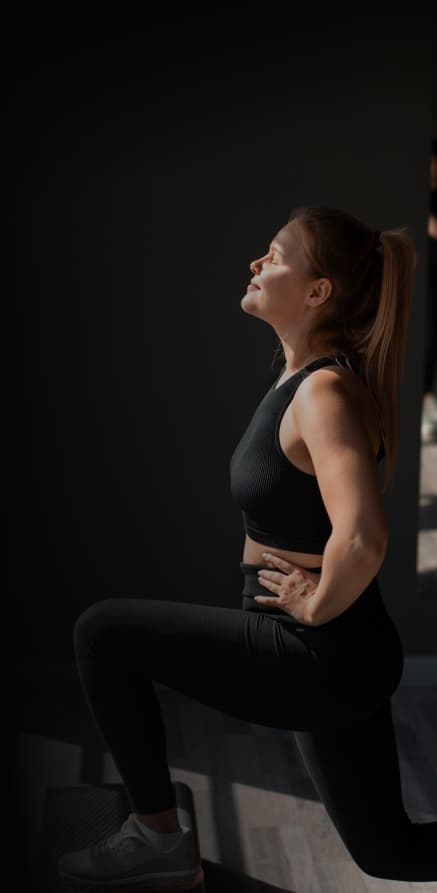
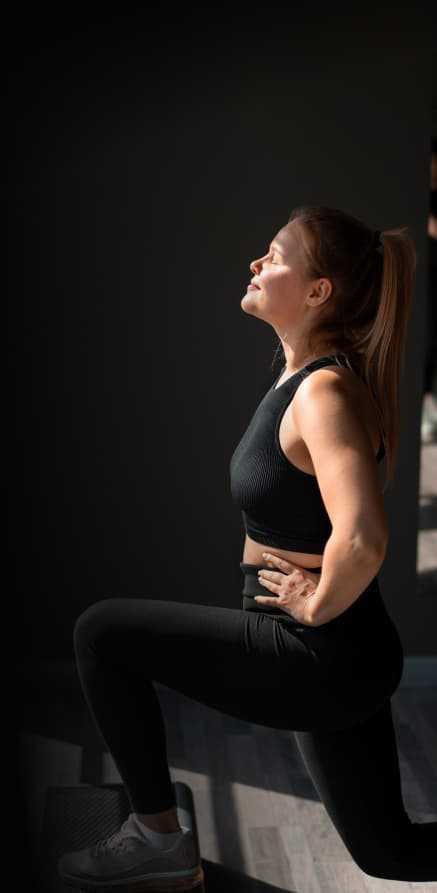
fon photo

diff --git a/src/components/AuthLayout/AuthLayout.styled.jsx b/src/components/AuthLayout/AuthLayout.styled.jsx
@@ -1,12 +1,12 @@
 import styled from 'styled-components';
 import { Link } from 'react-router-dom';
 
-// import Desk1x from '../../img/hero-1x.jpg';
-// import Desk2x from '../../img/hero-2x.jpg';
-// import Tab1x from '../../img/hero-tablet-1x.jpg';
-// import Tab2x from '../../img/hero-tablet-2x.jpg';
-// import Mob1x from '../../img/hero-mobile-1x.jpg';
-// import Mob2x from '../../img/hero-mobile-2x.jpg';
+import Desk1x from '../../img/hero-1x.jpg';
+import Desk2x from '../../img/hero-2x.jpg';
+import Tab1x from '../../img/hero-tablet-1x.jpg';
+import Tab2x from '../../img/hero-tablet-2x.jpg';
+import Mob1x from '../../img/hero-mobile-1.jpg';
+import Mob2x from '../../img/hero-mobile-2x.jpg';
 
 export const Container = styled.div`
   padding-top: 66px;
@@ -23,6 +23,63 @@ export const Container = styled.div`
     gap: 178px;
     padding-right: 32px;
     padding-top: 116px;
+  }
+`;
+export const Photo = styled.div`
+  background-image: url(${Mob1x});
+  position: absolute;
+  background-repeat: no-repeat;
+  background-position: center;
+  background-size: contain;
+
+  width: 298px;
+  height: 571px;
+  top: 180px;
+  left: 77px;
+  z-index: -1;
+
+  @media (min-device-pixel-ratio: 2),
+    (-webkit-min-device-pixel-ratio: 2),
+    (min-resolution: 192dpi),
+    (min-resolution: 2dppx) {
+    background-image: linear-gradient(
+        168deg,
+        #040404 14.75%,
+        rgba(4, 4, 4, 0) 52.97%
+      ),
+      linear-gradient(73deg, #040404 6.11%, rgba(4, 4, 4, 0) 66.68%),
+      url(${Mob2x});
+  }
+
+  @media screen and (min-width: 768px) {
+    position: absolute;
+    width: 423px;
+    height: 893px;
+    top: 47px;
+    left: 345px;
+
+    background-image: url(${Tab1x});
+    @media (min-device-pixel-ratio: 2),
+      (-webkit-min-device-pixel-ratio: 2),
+      (min-resolution: 192dpi),
+      (min-resolution: 2dppx) {
+      background-image: url(${Tab2x});
+    }
+  }
+  @media screen and (min-width: 1440px) {
+    position: absolute;
+    width: 670px;
+    height: 800px;
+    top: -84px;
+    left: 770px;
+    background-image: url(${Desk1x});
+
+    @media (min-device-pixel-ratio: 2),
+      (-webkit-min-device-pixel-ratio: 2),
+      (min-resolution: 192dpi),
+      (min-resolution: 2dppx) {
+      background-image: url(${Desk2x});
+    }
   }
 `;
 

diff --git a/src/components/AuthLayout/AuthLayout.jsx b/src/components/AuthLayout/AuthLayout.jsx
@@ -17,6 +17,7 @@ import {
   Icon,
   Block,
   IconManSvg,
+  Photo,
 } from './AuthLayout.styled';
 import sprite from '../../img/sprite.svg';
 
@@ -30,6 +31,7 @@ const AuthLayout = ({
 }) => {
   return (
     <Container className="container">
+      <Photo />
       <ContainerForm>
         <Title>{title}</Title>
         <Text>{paragraph}</Text>
